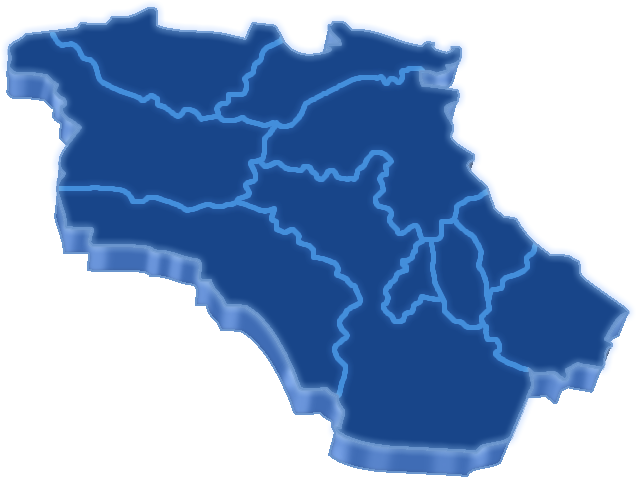
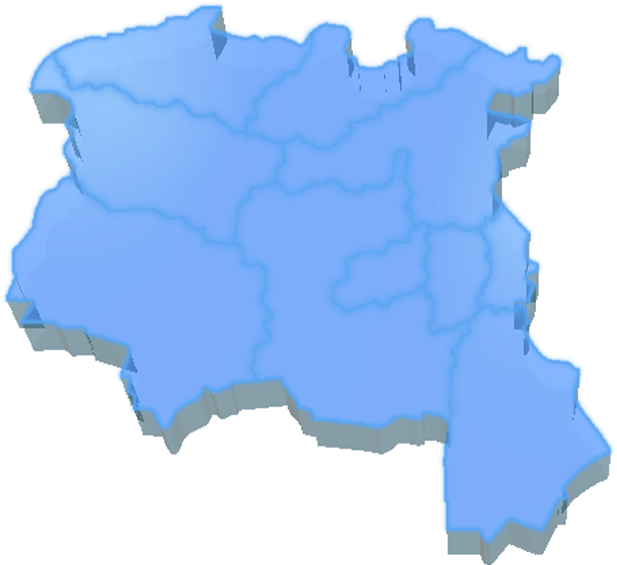
11111

diff --git a/pages/common/xcCharts/xcCharts.js b/pages/common/xcCharts/xcCharts.js
@@ -65,7 +65,7 @@ $c.charts.areaSpline = function(v, datas, xLabels, colors) {
  * @params v: 绑定元素id , 必须
  * */
 $c.charts.map = function(v) {
-    let mapSize = [638, 477];
+    let mapSize = [617, 565];
     let outerW = $('#' + v).width();
     let outerH = $('#' + v).height();
 
@@ -80,34 +80,44 @@ $c.charts.map = function(v) {
 
     let mapPoints = [{
         name: '小孟镇',
-        point: [150, 56]
+        point: [156, 52],
+        high: './common/img/map/map_high_1.png'
     },{
         name: '新驿镇',
-        point: [138, 148]
+        point: [138, 148],
+        high: './common/img/map/map_high_2.png'
     },{
         name: '漕河镇',
-        point: [280, 68]
+        point: [310, 80],
+        high: './common/img/map/map_high_3.png'
     },{
         name: '颜店镇',
-        point: [230, 256]
+        point: [122, 280],
+        high: './common/img/map/map_high_4.png'
     },{
-        name: '兖州镇',
-        point: [322, 216]
+        name: '新兖镇',
+        point: [280, 220],
+        high: './common/img/map/map_high_5.png'
     },{
         name: '大安镇',
-        point: [350, 120]
+        point: [420, 120],
+        high: './common/img/map/map_high_6.png'
     },{
-        name: '龙桥镇',
-        point: [402, 282]
+        name: '龙桥街道',
+        point: [350, 278],
+        high: './common/img/map/map_high_7.png'
     },{
         name: '鼓楼街道',
-        point: [450, 262]
+        point: [450, 260],
+        high: './common/img/map/map_high_8.png'
     },{
         name: '酒仙桥街道',
-        point: [496, 230]
+        point: [502, 230],
+        high: './common/img/map/map_high_9.png'
     },{
         name: '兴隆庄街道',
-        point: [530, 310]
+        point: [480, 410],
+        high: './common/img/map/map_high_10.png'
     }];
     let mapStr = '';
     mapStr += '<div class="charts-map" style="width: '+ mapW +'px;height: '+ mapH +'px;top: '+ mapTop +'px;">';
@@ -121,11 +131,15 @@ $c.charts.map = function(v) {
         mapStr += '     </div>';
     }
     mapStr += ' </div>';
+    mapStr += ' <img class="c-map-high" />';
     mapStr += '</div>';
-
-
-    mapStr += '';
     $('#' + v).html(mapStr).children('.charts-map').addClass('show');
+    $('#' + v + ' .charts-map .c-map-points .c-map-point').hover(function(){
+        let index = $(this).index();
+        $('#' + v + ' .charts-map .c-map-high').attr('src', mapPoints[index].high).addClass('show');
+    },function(){
+        $('#' + v + ' .charts-map .c-map-high').removeAttr('src').removeClass('show');
+    });
 }
 /**
  * 圆环进度条

diff --git a/pages/common/xcCharts/xcCharts.css b/pages/common/xcCharts/xcCharts.css
@@ -37,9 +37,9 @@ table{border-collapse: collapse;border-spacing: 0;}
 .charts-map .c-map-points{display: block;width: 100%;height: 100%;position: absolute;left: 0;top: 0;z-index: 6;}
 .charts-map .c-map-points .c-map-point{position: absolute;height: 22px;line-height: 22px;word-break: keep-all;white-space: nowrap;}
 .charts-map .c-map-points .c-map-point i{display: block;float: left;width: 8px;height: 8px;background: #FD6969;border-radius: 50%;position: relative;z-index: 2;float: left;margin: 7px 10px 0 0;}
-.charts-map .c-map-points .c-map-point i:after{content: '';position: absolute;left: 0;top: 0;width: 100%;height: 100%;border-radius: 50%;z-index: -1;background: #FD6969;opacity: 0.6;animation: mapPointShan 2s infinite ease-out;}
+.charts-map .c-map-points .c-map-point i:after{content: '';position: absolute;left: 0;top: 0;width: 100%;height: 100%;border-radius: 50%;z-index: -1;background: #FD6969;opacity: 0.8;animation: mapPointShan 2s infinite ease-out;}
 @keyframes mapPointShan{
-    0%{transform: scale(1);opacity: 0.6;}
+    0%{transform: scale(1);opacity: 0.8;}
     100%{transform: scale(4);opacity: 0;}
 }
 .charts-map.show{transform: scale(1);animation: mapShow 0.8s linear;}
@@ -47,3 +47,5 @@ table{border-collapse: collapse;border-spacing: 0;}
     0%{transform: scale(0)}
     100%{transform: scale(1)}
 }
+.charts-map .c-map-high{display: block;width: 100%;height: 100%;position: absolute;left: 0;top: 0;z-index: 2;pointer-events: none;border: 0;opacity: 0;}
+.charts-map .c-map-high.show{opacity: 1;}

diff --git a/pages/demo2.html b/pages/demo2.html
@@ -26,7 +26,7 @@
 <div id="circle2" style="height: 200px;width: 200px;margin: 0 auto;"></div>
 
 <div style="height: 50px;line-height: 50px;color: #fff;font-size: 20px;text-align: center;">地图</div>
-<div id="map" style="height: 477px;width: 638px;margin: 0 auto;"></div>
+<div id="map" style="height: 565px;width: 617px;margin: 0 auto;"></div>
 
 <div style="height: 50px;line-height: 50px;color: #fff;font-size: 20px;text-align: center;"></div>
 </body>
